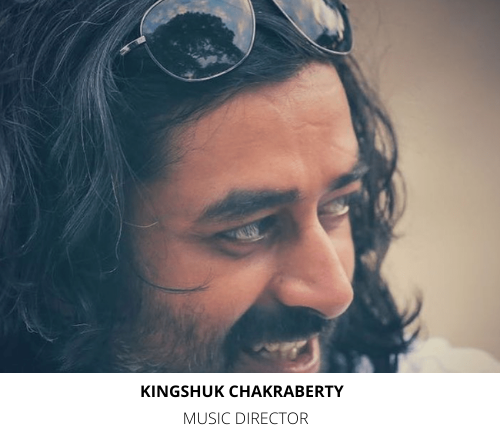
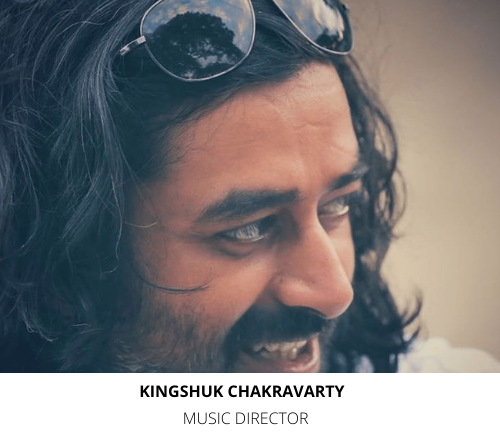
removed element from index.html

Changed region(s): [[0.27, 0.8687, 0.69, 0.9286]]

diff --git a/index.html b/index.html
@@ -23,7 +23,9 @@
 <script src="pbp.js" type="module" async></script>
 
 <style type="text/css">
-
+html {
+  scroll-behavior: smooth;
+}
 body{
   max-width: 100%;
   margin: 0;
@@ -79,6 +81,9 @@ body{
         margin-top: 70%;
         font-size: 15vw;
       }
+      .side-element-r {
+        display: none;
+      }
 
     }
 
@@ -99,6 +104,13 @@ body{
 }
 .btn-book:hover{
   background-color: red;
+}
+
+.btn-book1 {
+  width: 120px;
+  background-color: transparent;
+  color: black;
+  border-color: black;
 }
 
 </style>
@@ -161,6 +173,7 @@ body{
       <div class="text1">
         <div class="theme-title">Piece by Piece</div>
         <div class="theme-desc">A single brick itself is of no great use but when several bricks are held together, one by one, it can be transformed into massive structures. The theme of our event revolves around the same. Just like the tiny puzzle blocks form a big picture, life is a puzzle too, made up of numerous puzzle blocks in different stages of our lives.<br><br>
+        <a href="/theme.html"><button type="button" class="btn btn-dark btn-book1">Know More</button></a>
       </div>
     </div>
 </div>
@@ -276,63 +289,62 @@ body{
 </style>
 
    
-<h2 class="speaker" style="color: white;text-align: center;font-family:'Helvetica', sans-serif;font-weight: bold; margin-top: 5vh;" class="display-2" ><span style="color:white;font-weight: bold;font-family:'Helvetica', sans-serif;">UPCOMING</span> SPEAKERS</h2>
+<h2 class="speaker" style="color: white;text-align: center;font-family:'Helvetica', sans-serif;font-weight: bold; margin-top: 5vh;" class="display-2" ><span style="color:white;font-weight: bold;font-family:'Helvetica', sans-serif;">SPEAKERS FOR 2022</span></h2>
 
 
 	<div class="row justify-content-center" style="margin-top: 2%; margin-left: 1.5%;" >
 		<div class="col-12 col-sm-5 col-md-5 col-lg-3 mb-5">
-				<div class="card" style="height: 500px;">
+				<div class="card" style="height: 550px;">
 					<div class="card-body">
 					  <img class="card-img-top mb-4" src="Images/puneet.jpeg" alt="Card image cap">
 					<div class="card-title" >
-            <center><p style="color: white;font-size: 1rem;font-weight: 500;"><nobr>Mr. Puneeth Bekal</nobr></p></center></div>
+            <center><p style="color: white;font-size: 1.2rem;font-weight: 600;"><nobr>Mr. Puneeth Bekal</nobr></p></center></div>
 					<center>
-					<p class="card-text"  style="color: white;font-size: 0.7rem;font-weight: 500;">Currently associated as Director of Marketing with Mastercard. Successfully orchestrated 5 of India’s largest award-winning campaigns—including both digital and traditional media channels—to drive business & brand impact for Fortune 500 companies across FMCG, Consumer Durables, Retail, Real Estate & Fintech with noteworthy accolades like Emvies, Effies, Abbys, Smarties, Mobbys, Golden Mikes and more. </p></center>
+					<p class="card-text"  style="color: white;font-size: 0.85rem;font-weight: 500;">Currently associated as Director of Marketing with Mastercard. Successfully orchestrated 5 of India’s largest award-winning campaigns—including both digital and traditional media channels—to drive business & brand impact for Fortune 500 companies across FMCG, Consumer Durables, Retail, Real Estate & Fintech with noteworthy accolades.</p></center>
 				</div>
 			</div>
 		</div>
 		<div class="col-12 col-sm-5 col-md-5 col-lg-3 mb-5">
-				<div class="card" style="height: 500px;">
+				<div class="card" style="height: 550px;">
 					<div class="card-body">
 					  <img class="card-img-top mb-4" src="Images/1.png" alt="Card image cap">
 					<div class="card-title" >
-            <center><p style="color: white;font-size: 1rem;font-weight: 500;"><nobr>Dr. Om Shrivastav</nobr></p></center></div>
+            <center><p style="color: white;font-size: 1.2rem;font-weight: 600;"><nobr>Dr. Om Shrivastav</nobr></p></center></div>
 					<center>
-					<p class="card-text"  style="color: white;font-size: 0.7rem;font-weight: 500;">Dr. Om Shrivastav had completed his training in M.D. ( Medicine ) from India. He then commenced his training in Sydney, Australia where he trained at St. Vincent’s Hospital, Liverpool Hospital & Royal North Shore Hospital. Fellowship in Infectious Diseases and Immunology from Sydney. He was a part of the Covid 19 Taskforce and played a key role in drafting guidelines for containing Covid 19 disease.</p></center>
+					<p class="card-text"  style="color: white;font-size: 0.9rem;font-weight: 500;">Dr. Om Shrivastav had completed his training in M.D. ( Medicine ) from India. He then commenced his training in Sydney, Australia where he trained at St. Vincent’s Hospital, Liverpool Hospital & Royal North Shore Hospital. Fellowship in Infectious Diseases and Immunology from Sydney, Australia.</p></center>
 				</div>
 			</div>
 		</div>
 		<div class="col-12 col-sm-5 col-md-5 col-lg-3 mb-5">
-				<div class="card" style="height: 500px;">
+				<div class="card" style="height: 550px;">
 					<div class="card-body">
 					  <img class="card-img-top mb-4" src="Images/2.png" alt="Card image cap">
 					<div class="card-title" >
-            <center><p style="color: white;font-size: 1rem;font-weight: 500;"><nobr>Suvrat Joshi</nobr></p></center></div>
+            <center><p style="color: white;font-size: 1.2rem;font-weight: 600;"><nobr>Suvrat Joshi</nobr></p></center></div>
 					<center>
-					<p class="card-text"  style="color: white;font-size: 0.7rem;font-weight: 500;">Suvrat Joshi is an Indian drama, television actor.Suvrat began his career with theatre and then entered television. He is widely known for his work in the Marathi sitcom, Dil Dosti Duniyadari and its sequel, Dil Dosti Dobara.He produced and acted in his play Amar Photo Studio which rose to fame and received a lot of praise in the marathi theatre community. </p></center>
+					<p class="card-text"  style="color: white;font-size: 0.85rem;font-weight: 500;">Suvrat Joshi is an Indian drama, television actor.Suvrat began his career with theatre and then entered television. He is widely known for his work in the Marathi sitcom, Dil Dosti Duniyadari and its sequel, Dil Dosti Dobara.He produced and acted in his play Amar Photo Studio which rose to fame and received a lot of praise in the marathi theatre community. </p></center>
 				</div>
 			</div>
 		</div>
 		<div class="col-12 col-sm-5 col-md-5 col-lg-3 mb-5">
-				<div class="card" style="height: 500px;">
+				<div class="card" style="height: 550px;">
 					<div class="card-body">
 					  <img class="card-img-top mb-4" src="Images/3.png" alt="Card image cap">
 					<div class="card-title" >
-            <center><p style="color: white;font-size: 1rem;font-weight: 500;"><nobr>Kingshuk Chakraverty</nobr></p></center></div>
+            <center><p style="color: white;font-size: 1.2rem;font-weight: 600;"><nobr>Kingshuk Chakravarty</nobr></p></center></div>
 					<center>
-					<p class="card-text"  style="color: white;font-size: 0.7rem;font-weight: 500;">Music director at Freelance musician and composer. 
-            Kingshuk Chakravarty is an Indian film Music Director, who has worked predominantly in Bollywood. Kingshuk's previous film to hit the theatres was Suraj Pe Mangal Bhari in the year 2020. The Zoya Factor, Sunshines Music Tours & Travels & the recently released movie Suraj Pe Mangal Bhari.</p></center>
+					<p class="card-text"  style="color: white;font-size: 0.85rem;font-weight: 500;">Music director at Freelance musician and composer. Kingshuk Chakravarty is an Indian film Music Director, who has worked predominantly in Bollywood. Kingshuk's previous film to hit the theatres was Suraj Pe Mangal Bhari in the year 2020. The Zoya Factor, Sunshines Music Tours & Travels & the recently released movie Suraj Pe Mangal Bhari.</p></center>
 				</div>
 			</div>
 		</div>
 		<div class="col-12 col-sm-5 col-md-5 col-lg-3 mb-5">
-				<div class="card" style="height: 500px;">
+				<div class="card" style="height: 550px;">
 					<div class="card-body">
 					  <img class="card-img-top mb-4" src="Images/4.png" alt="Card image cap">
 					<div class="card-title" >
-            <center><p style="color: white;font-size: 1rem;font-weight: 500;"><nobr>Rishabh Karwa</nobr></p></center></div>
+            <center><p style="color: white;font-size: 1.2rem;font-weight: 600;"><nobr>Rishabh Karwa</nobr></p></center></div>
 					<center>
-					<p class="card-text"  style="color: white;font-size: 0.7rem;font-weight: 500;">Co-founder at GoMechanic | Forbes 30 Under 30 ( India & Asia). He is the Managing Director & Co-Founder at GoMechanic. Automobile after-sales service and spare parts startup GoMechanic has announced a $42 Mn Series C funding round led by Tiger Global. Existing investors Sequoia Capital India, Orios Venture Partners & Chiratae Ventures also participated in the round. </p></center>
+					<p class="card-text"  style="color: white;font-size: 0.85rem;font-weight: 500;">He is the Managing Director & Co-Founder at GoMechanic. Forbes 30 Under 30 (India & Asia). Automobile after-sales service and spare parts startup GoMechanic has announced a $42 Mn Series C funding round led by Tiger Global. Existing investors Sequoia Capital India, Orios Venture Partners & Chiratae Ventures also participated in the round. </p></center>
 				</div>
 			</div>
 		</div>
@@ -372,7 +384,7 @@ body{
       <div class="content">
         
         <p>Swapnil Mudaliar (Operations) - +91 88502 16315</p>
-        <p>Afraz Kazi (Partnerships) - +91 84509 23743</p>
+        <p>Afraz Kazi (Partnerships) - +91 93242 45858</p>
         
       </div>
     </div>

diff --git a/speakers.html b/speakers.html
@@ -160,6 +160,22 @@ text-shadow: 1px 1px 2px #0a0a0a;
 .btn-explore:hover{
   background-color: red;
 }
+
+.btn-know-more {
+  width: max-content;
+  border-color: white;
+  color: white;
+  background-color: transparent;
+  border: 1px solid white;
+  border-radius: 10px;
+  transition: all 0.5s;
+}
+
+.btn-know-more:hover{
+  background-color: red;
+  color: white;
+  border: 1px solid red;
+}
 </style>
 
 <header>
@@ -237,16 +253,18 @@ text-shadow: 1px 1px 2px #0a0a0a;
      <div class="hideRight">
        <img src="Images/speakers/1.png">
      </div>
-     <div class="row">
-      <div class="col-6">
-       <a href="index.html#upcoming"><button type="button" class="btn btn-explore">Know More<i class="ml-2 fas fa-arrow-right"></i></button></a>
-      </div>
+     
     </div>
-   </div>
-  
-   
+    <!-- <span class="center">
+            <a href="index.html#upcoming">
+              <button type="button" class="btn btn-know-more" style="position: absolute; z-index: 1000; width: max-content; left: 45%; top: 85%">Know More<i class="ml-2 fas fa-arrow-right"></i></button>
+            </a>
+            </span> -->
+     
     
-    <div class="container-title " style="margin-top: -380px;">
+   </div>
+    
+    <div class="container-title " style="margin-top: -320px;">
       <div class="speaker-title">
        <div class="title-word" >TED<span style="color: red;">x</span> SPEAKERS 2019</div>
        
